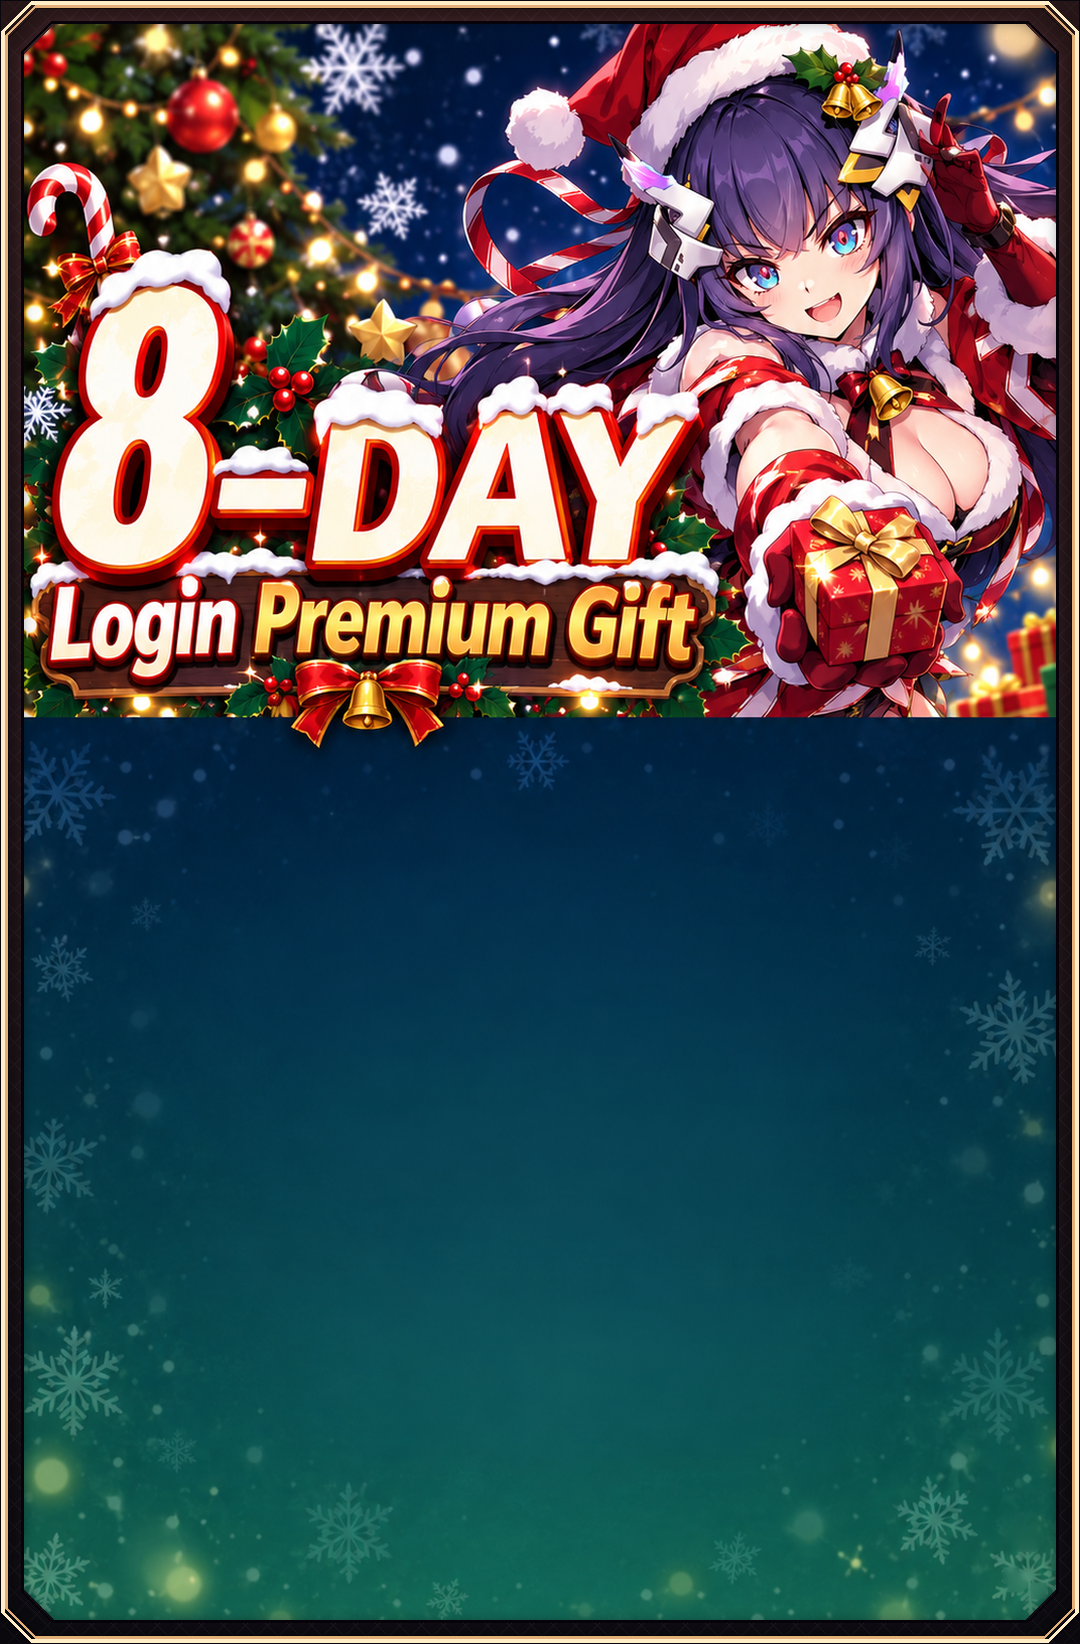
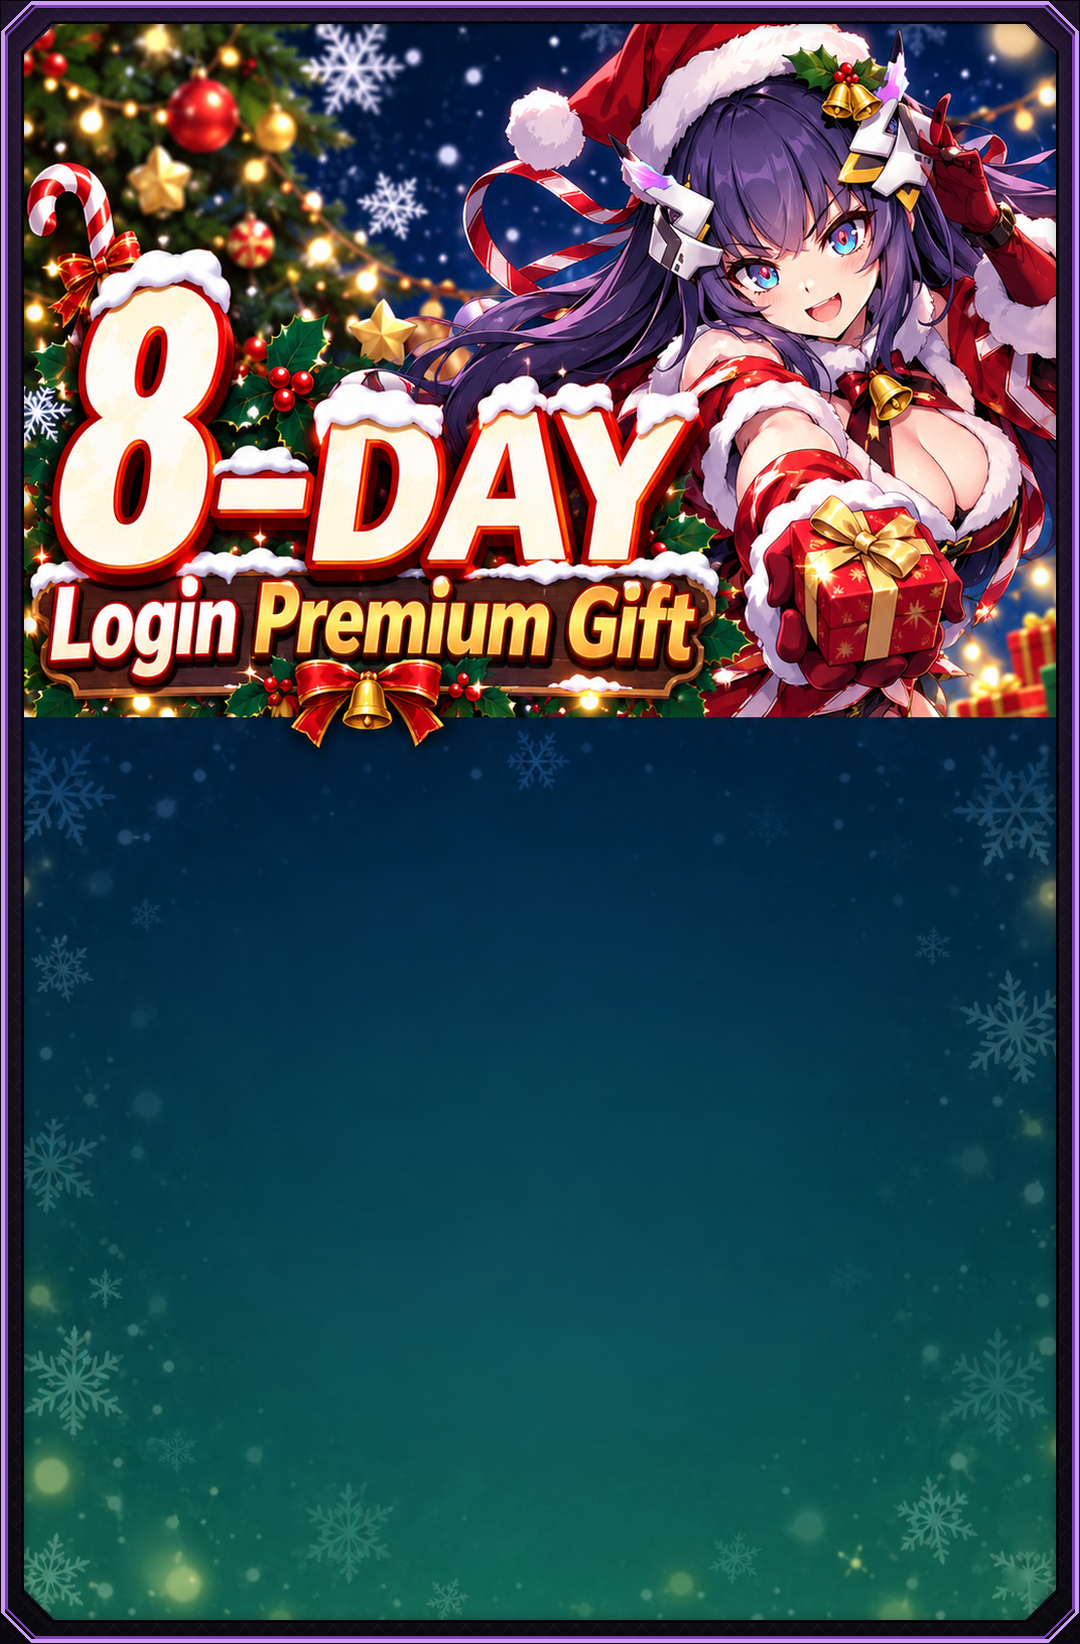
feat(art-restyle): 紫亮边压深一档并作为登录底板定稿
violet 亮边 230,196,255 → 206,158,246（斜面 124,66,182、带色 46,22,66）：
首版偏灰白，用户要「紫变深」。登录底板按 --frame-rim violet 重出并写回。

Changed region(s): [[0.0, 0.0, 1.0, 1.0]]

diff --git a/scripts/image/restyle_pipeline.py b/scripts/image/restyle_pipeline.py
@@ -502,7 +502,7 @@ CARD_RIMS = {
     # 名字      亮边            内侧过渡（亮边的下半坡）      带色（rim 里侧）
     "warm": ((255, 238, 200), (226, 176, 120), (58, 26, 30)),
     "ivory": ((244, 246, 250), (162, 170, 190), (44, 46, 62)),
-    "violet": ((230, 196, 255), (156, 108, 216), (52, 28, 74)),
+    "violet": ((206, 158, 246), (124, 66, 182), (46, 22, 66)),
     "none": (None, None, None),
 }
 

diff --git a/docs/art_restyle_pipeline.md b/docs/art_restyle_pipeline.md
@@ -159,7 +159,7 @@ $PY scripts/image/restyle_pipeline.py prepare --asset Assets/... --theme christm
 |---|---|
 | `warm`（默认） | 暖金 `255,238,200`。圣诞/新年这类暖色主题 |
 | `ivory` | 银白 `244,246,250`。冷色/金属主题 |
-| `violet` | 紫白 `230,196,255`。跟紫色面板同色系，最"服帖" |
+| `violet` | 紫白 `206,158,246`。跟紫色面板同色系，最"服帖"（首版 `230,196,255` 偏灰白，用户要求「紫变深一档」后压深） |
 | `none` | 不画亮边 —— 🔴 只在浅色底上用，深色面板上框会看不见 |
 
 | 值 | 效果 |
